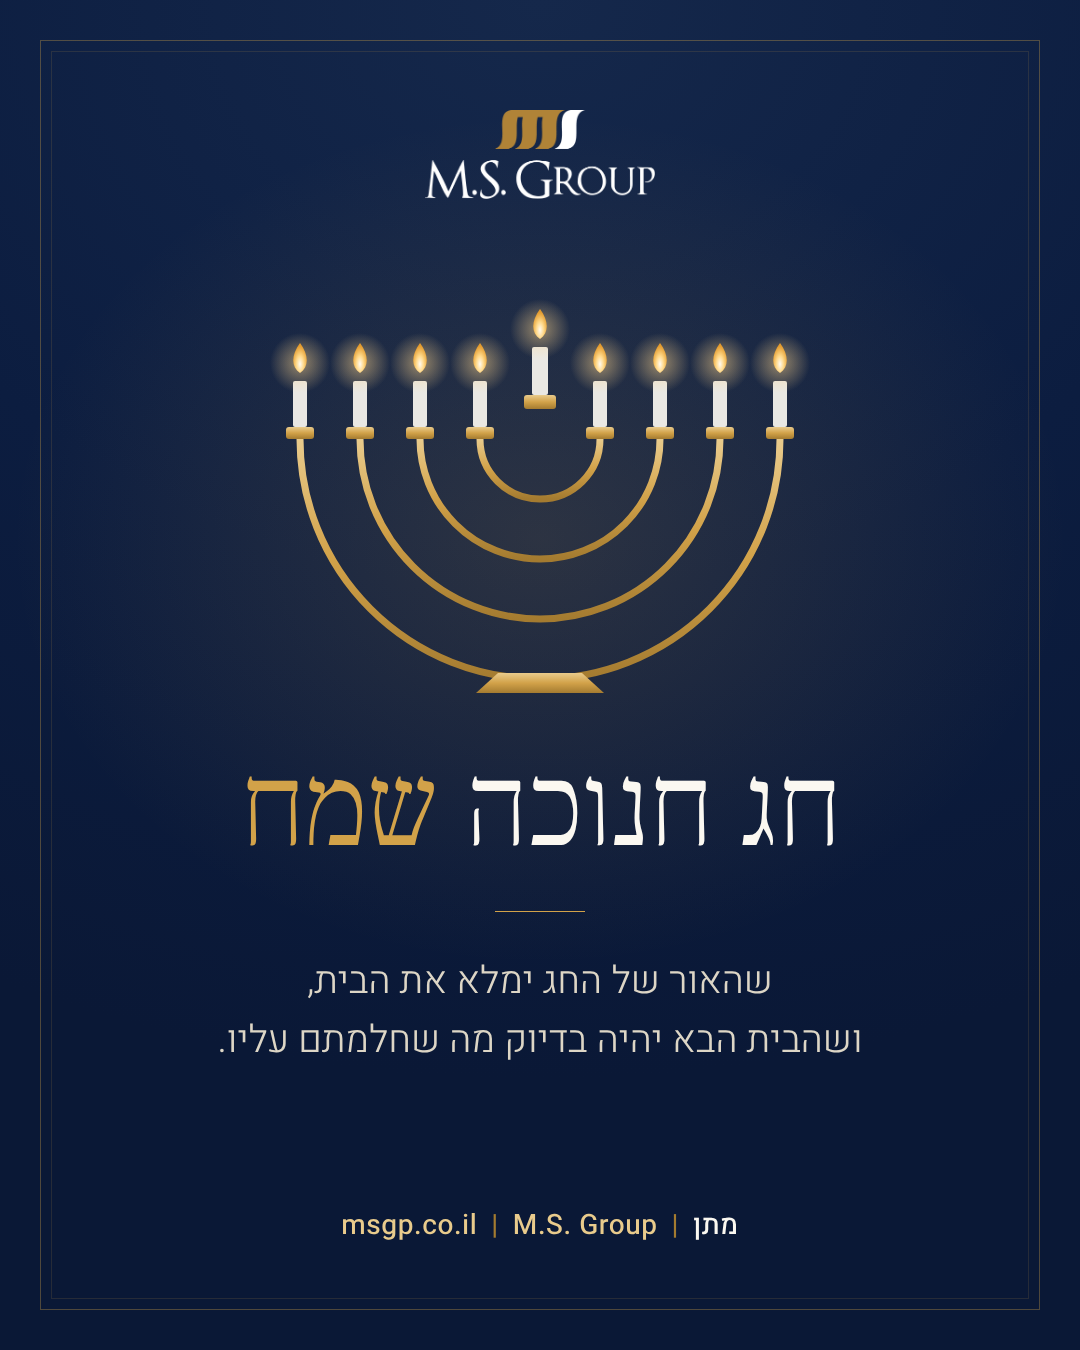
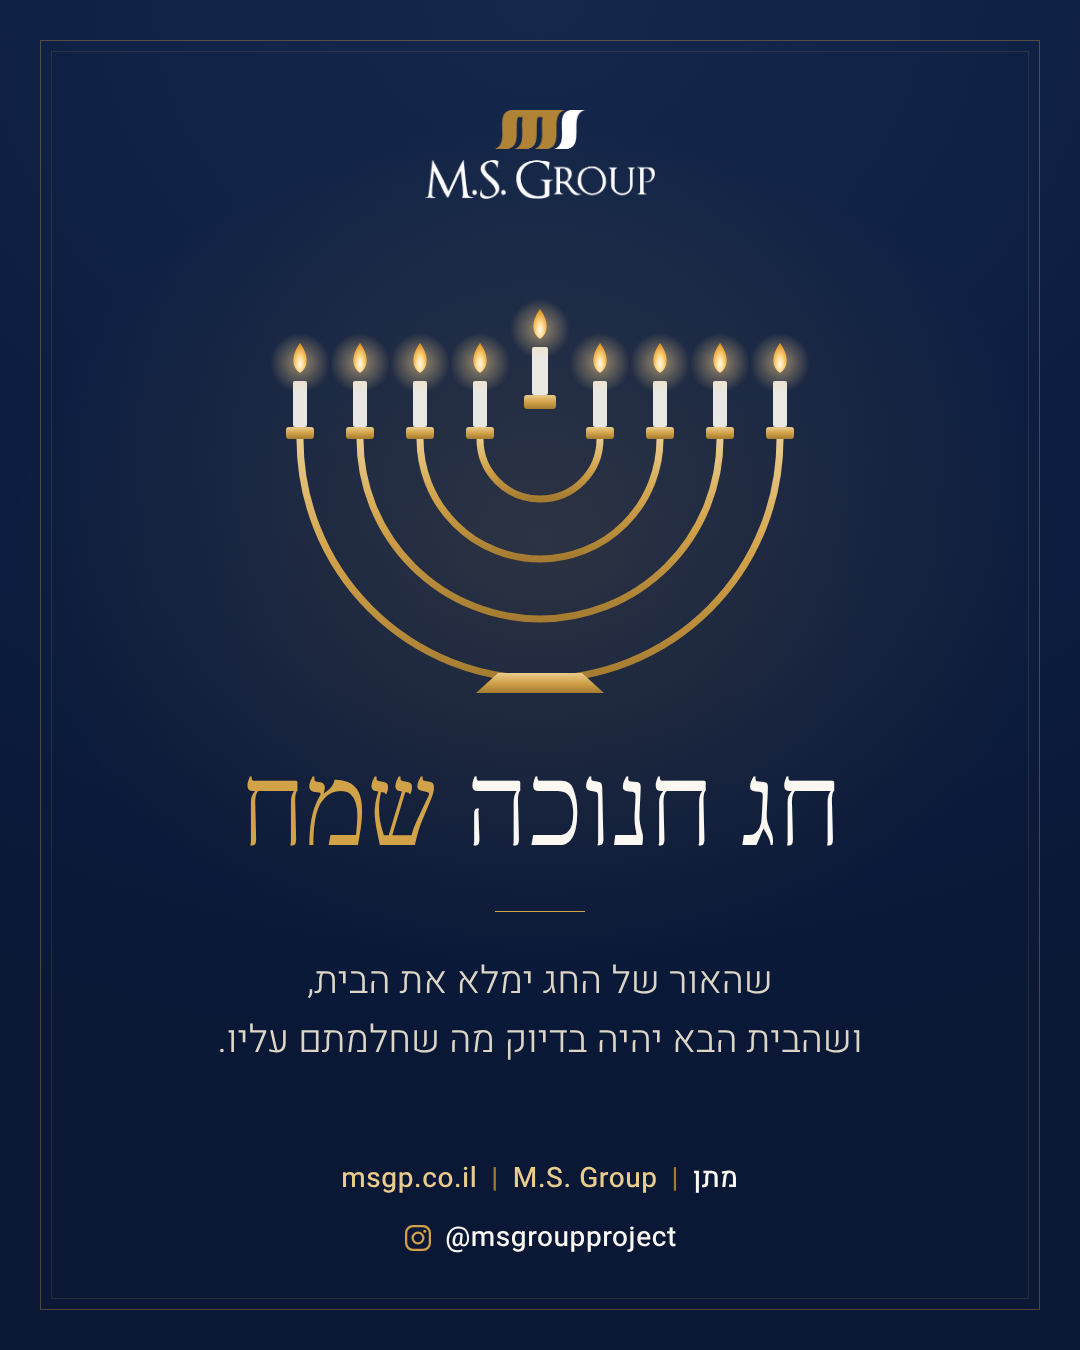
Add Instagram handle to Hanukkah greeting card
Claude-Session: https://claude.ai/code/session_017XCFGxssxAsCcbezCSfU56

Changed region(s): [[0.3056, 0.8711, 0.6722, 0.9333]]

diff --git a/marketing/greetings/hanukkah.html b/marketing/greetings/hanukkah.html
@@ -36,10 +36,12 @@
     font-size: 38px; line-height: 1.55; color: var(--mist);
   }
   .sign {
-    position: absolute; bottom: 104px; left: 0; right: 0; text-align: center;
+    position: absolute; bottom: 92px; left: 0; right: 0; text-align: center;
     font-size: 28px; letter-spacing: .02em; color: var(--pale-gold);
   }
   .sign b { font-weight: 500; color: var(--ivory); }
+  .sign .ig { margin-top: 18px; display: flex; justify-content: center; align-items: center; gap: 12px; color: var(--ivory); font-weight: 500; }
+  .sign .ig svg { width: 30px; height: 30px; color: var(--gold); }
   .sign .dot { margin: 0 14px; color: var(--antique); }
 </style>
 </head>
@@ -113,7 +115,13 @@
   <div class="rule"></div>
   <p class="wish">שהאור של החג ימלא את הבית,<br>ושהבית הבא יהיה בדיוק מה שחלמתם עליו.</p>
 
-  <div class="sign"><b>מתן</b><span class="dot">|</span><bdi>M.S. Group</bdi><span class="dot">|</span><bdi>msgp.co.il</bdi></div>
+  <div class="sign">
+    <div><b>מתן</b><span class="dot">|</span><bdi>M.S. Group</bdi><span class="dot">|</span><bdi>msgp.co.il</bdi></div>
+    <div class="ig" dir="ltr">
+      <svg viewBox="0 0 24 24" aria-hidden="true"><rect x="2.5" y="2.5" width="19" height="19" rx="5.5" fill="none" stroke="currentColor" stroke-width="1.8"/><circle cx="12" cy="12" r="4.3" fill="none" stroke="currentColor" stroke-width="1.8"/><circle cx="17.4" cy="6.6" r="1.2" fill="currentColor"/></svg>
+      <span>@msgroupproject</span>
+    </div>
+  </div>
 </div>
 </body>
 </html>
